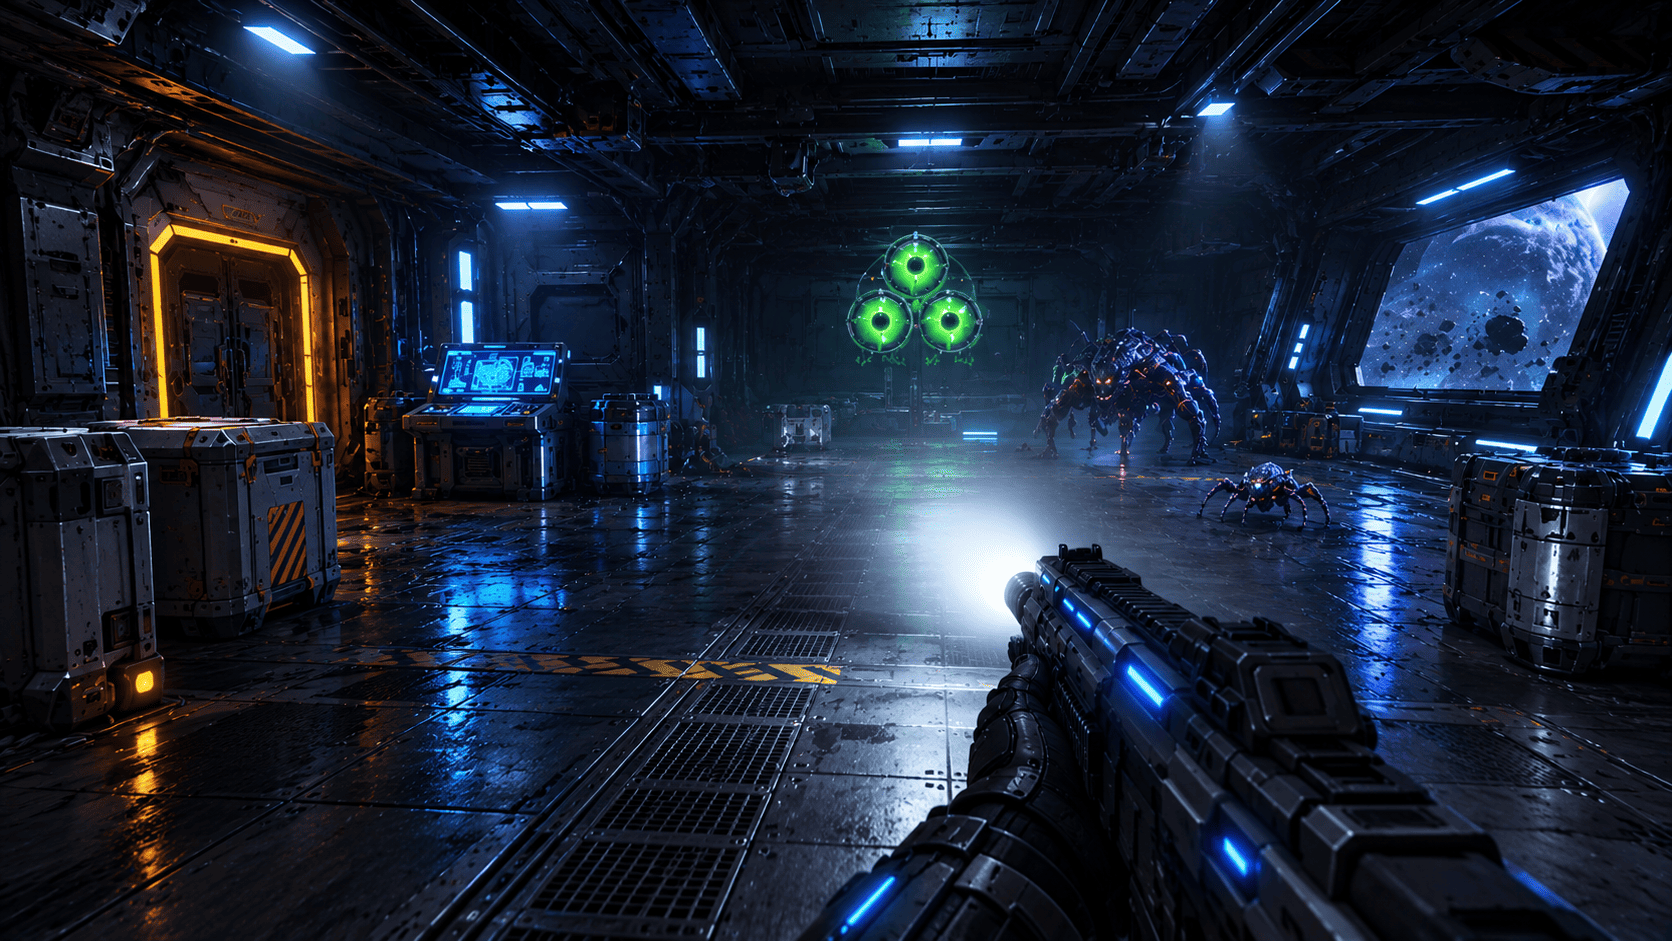
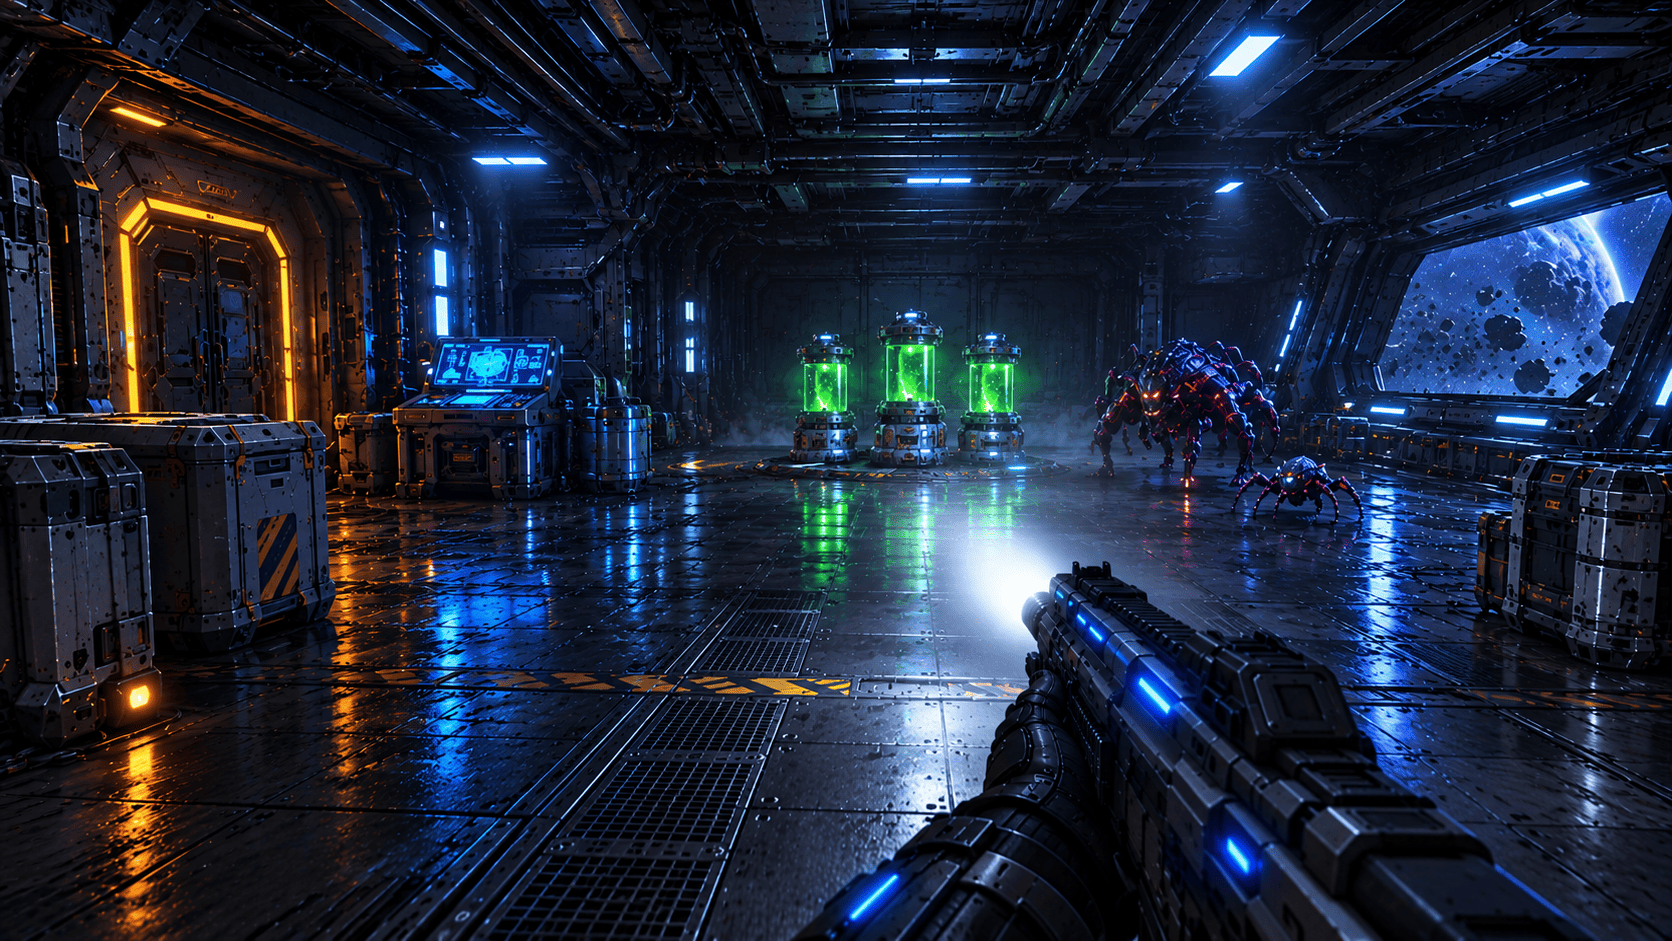
feat(deploy): update latest game build and layout [Sat 11/07/2026  2:13:53.36]

diff --git a/dist/sw.js b/dist/sw.js
@@ -1,5 +1,5 @@
 // Project Xeno: Reloaded - PWA Service Worker v2.1.0
-const CACHE_NAME = 'project-xeno-v3.0-20261107020602';
+const CACHE_NAME = 'project-xeno-v3.0-20261107021351';
 const STATIC_ASSETS = [
   '/',
   '/index.html',

diff --git a/frontend/dist/sw.js b/frontend/dist/sw.js
@@ -1,5 +1,5 @@
 // Project Xeno: Reloaded - PWA Service Worker v2.1.0
-const CACHE_NAME = 'project-xeno-v3.0-20261107020602';
+const CACHE_NAME = 'project-xeno-v3.0-20261107021351';
 const STATIC_ASSETS = [
   '/',
   '/index.html',

diff --git a/frontend/sw.js b/frontend/sw.js
@@ -1,5 +1,5 @@
 // Project Xeno: Reloaded - PWA Service Worker v2.1.0
-const CACHE_NAME = 'project-xeno-v3.0-20261107020602';
+const CACHE_NAME = 'project-xeno-v3.0-20261107021351';
 const STATIC_ASSETS = [
   '/',
   '/index.html',

diff --git a/sw.js b/sw.js
@@ -1,5 +1,5 @@
 // Project Xeno: Reloaded - PWA Service Worker v2.1.0
-const CACHE_NAME = 'project-xeno-v3.0-20261107020602';
+const CACHE_NAME = 'project-xeno-v3.0-20261107021351';
 const STATIC_ASSETS = [
   '/',
   '/index.html',

diff --git a/dist/index.html b/dist/index.html
@@ -5056,6 +5056,6 @@
         </div>
     </div>
 
-    <script src="game.min.js?v=20261107020602"></script>
+    <script src="game.min.js?v=20261107021351"></script>
 </body>
 </html>

diff --git a/frontend/dist/index.html b/frontend/dist/index.html
@@ -5056,6 +5056,6 @@
         </div>
     </div>
 
-    <script src="game.min.js?v=20261107020602"></script>
+    <script src="game.min.js?v=20261107021351"></script>
 </body>
 </html>
